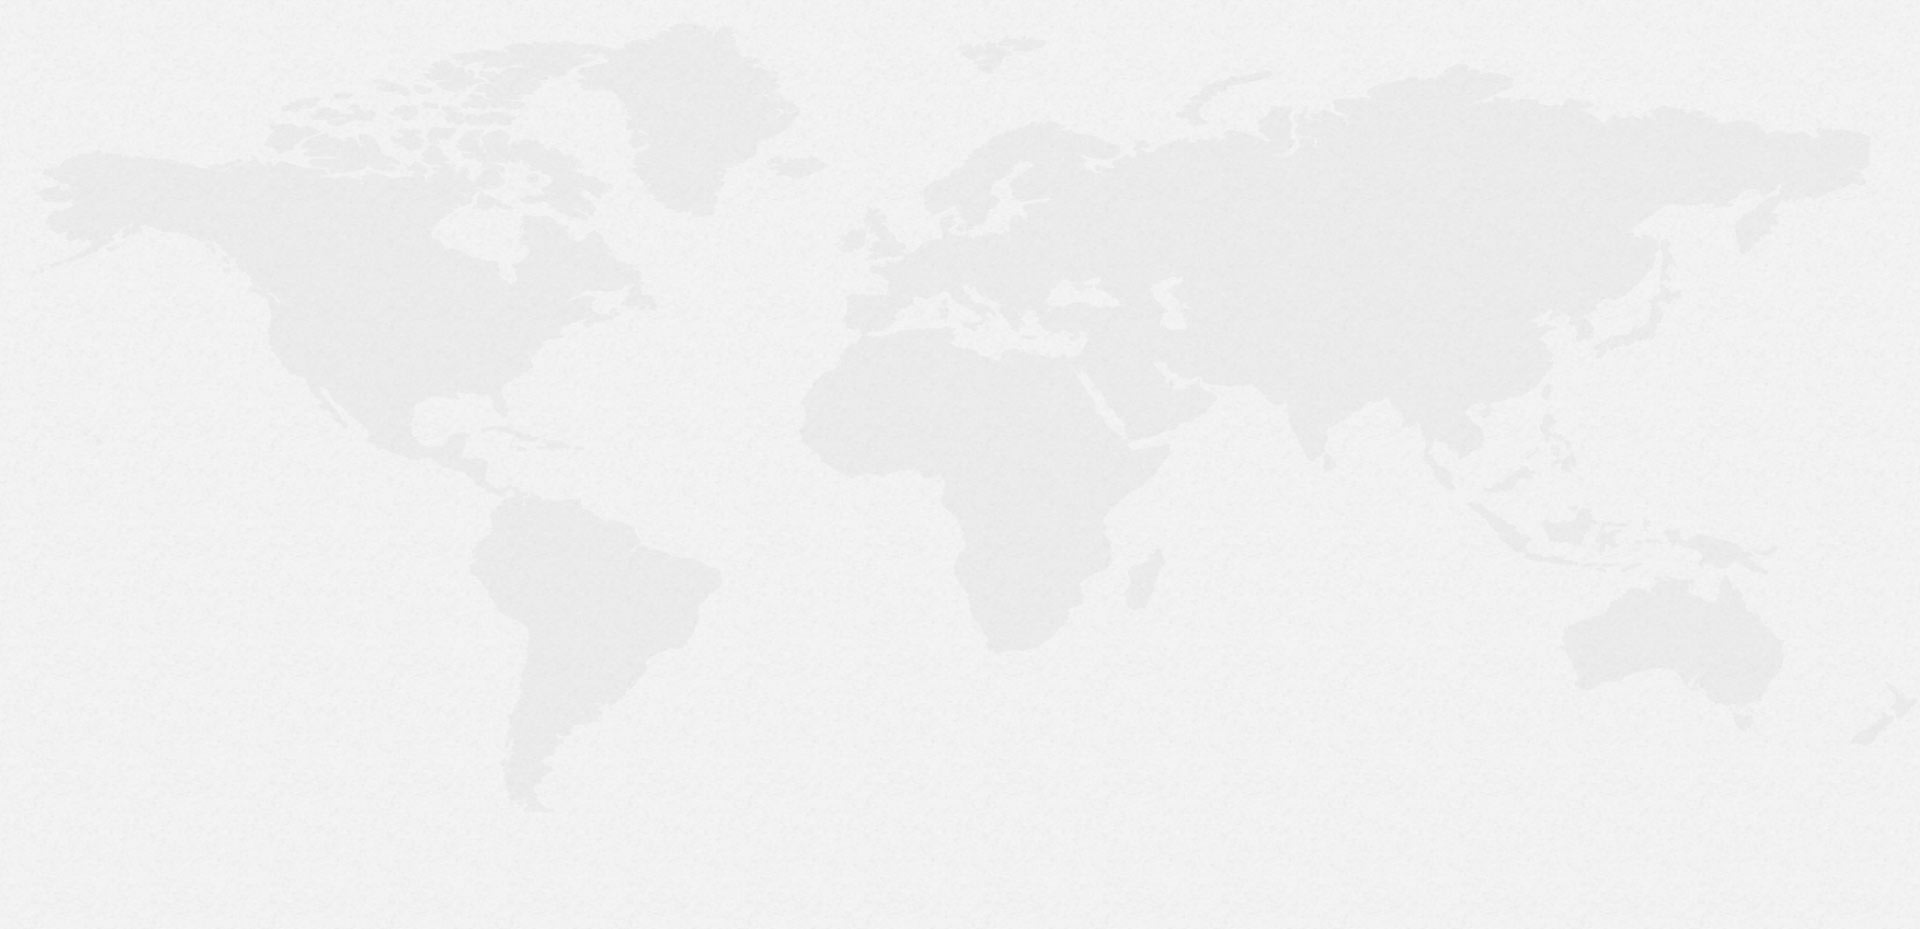
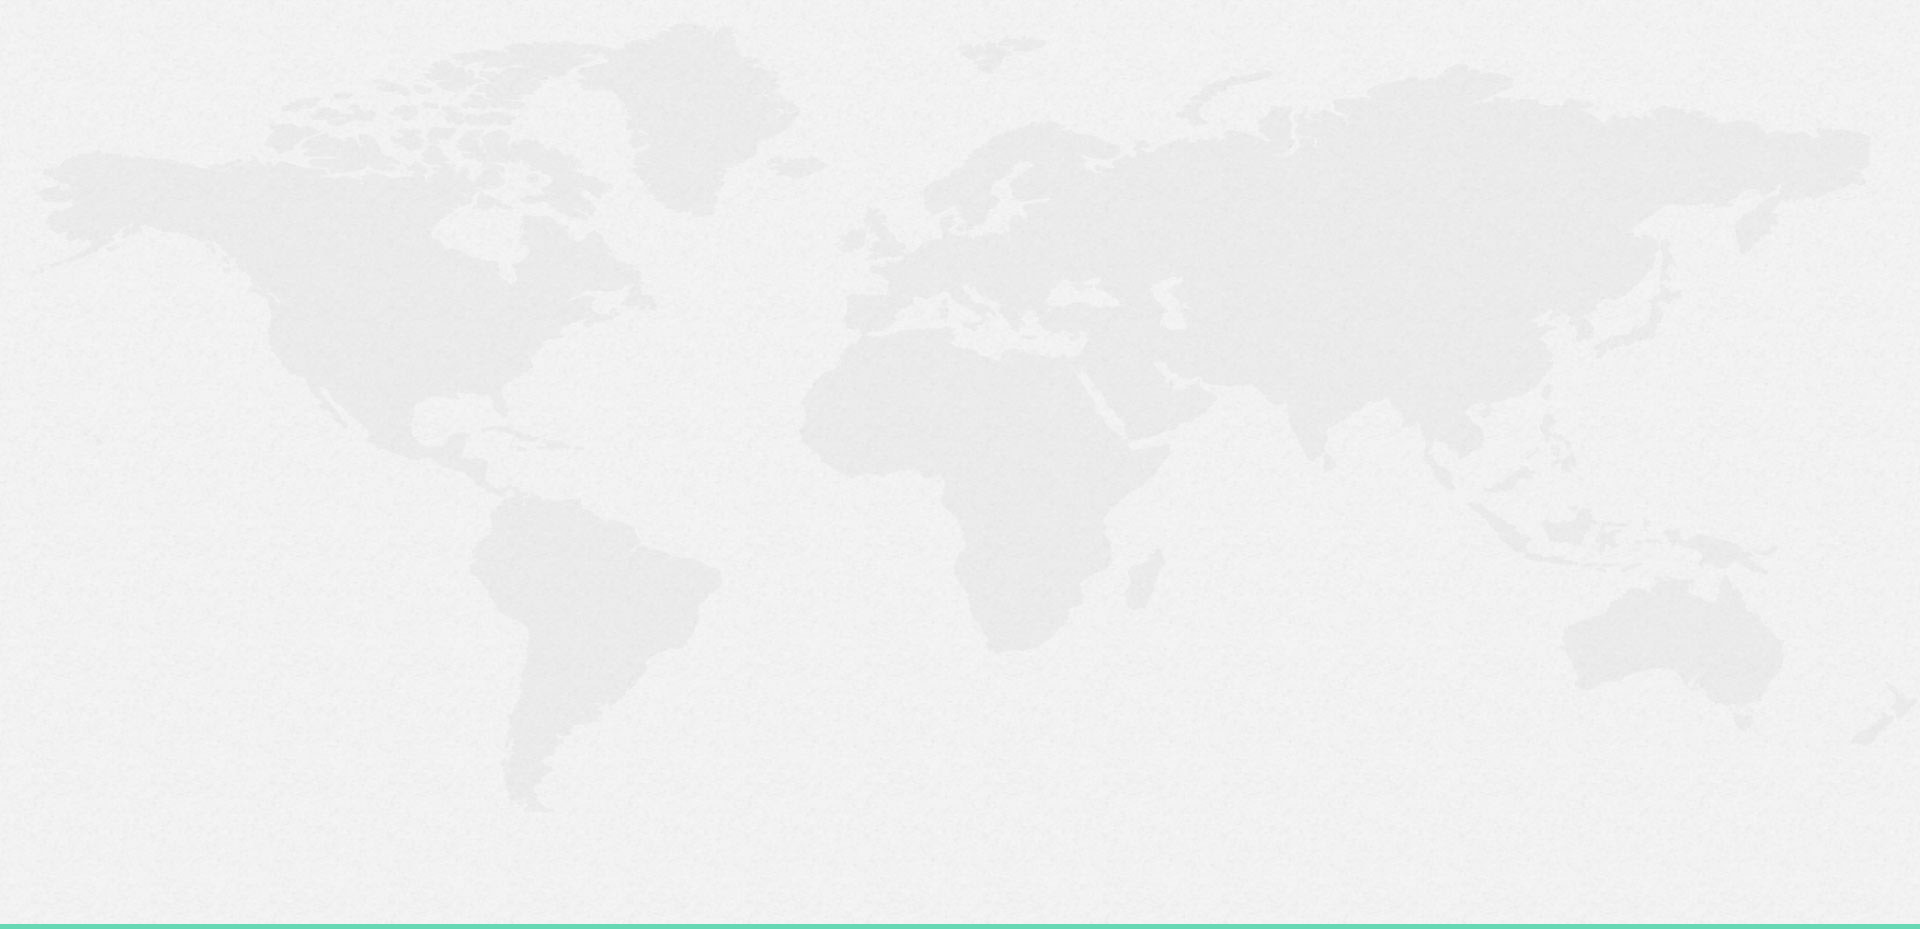
add

Changed region(s): [[0.0, 0.9677, 1.0, 1.0]]

diff --git a/index.html b/index.html
@@ -343,52 +343,52 @@
                     <ul class="links">
                         <li>
                             <a href="javascript:{}">
-                                <img src="logo/大唐.png">
+                                <img src="logo/合作伙伴.jpg">
                             </a>
                         </li>
                         <li>
                             <a href="javascript:{}">
-                                <img src="logo/华能.png">
+                                <img src="logo/合作伙伴1.jpg">
                             </a>
                         </li>
                         <li>
                             <a href="javascript:{}">
-                                <img src="logo/上海电气.png">
+                                <img src="logo/合作伙伴2.jpg">
                             </a>
                         </li>
                         <li>
                             <a href="javascript:{}">
-                                <img src="logo/国电.png">
+                                <img src="logo/合作伙伴3.jpg">
                             </a>
                         </li>
                         <li>
                             <a href="javascript:{}">
-                                <img src="logo/华电.png">
+                                <img src="logo/合作伙伴4.jpg">
                             </a>
                         </li>
                         <li>
                             <a href="javascript:{}">
-                                <img src="logo/华润.png">
+                                <img src="logo/合作伙伴5.jpg">
                             </a>
                         </li>
                         <li>
                             <a href="javascript:{}">
-                                <img src="logo/神华集团.png">
+                                <img src="logo/合作伙伴6.jpg">
                             </a>
                         </li>
                         <li>
                             <a href="javascript:{}">
-                                <img src="logo/中电投.png">
+                                <img src="logo/合作伙伴7.jpg">
                             </a>
                         </li>
                         <li>
                             <a href="javascript:{}">
-                                <img src="logo/光大环保.png">
+                                <img src="logo/合作伙伴8.jpg">
                             </a>
                         </li>
                         <li>
                             <a href="javascript:{}">
-                                <img src="logo/浙能.png">
+                                <img src="logo/合作伙伴9.jpg">
                             </a>
                         </li>
                     </ul>

diff --git a/mate.html b/mate.html
@@ -53,7 +53,7 @@
 	<![endif]-->
 
 	</head>
-	<body>
+	<hr>
 		
 	<div class="gtco-loader"></div>
 	
@@ -242,7 +242,9 @@
 
 	<!--业绩滚动-->
 
-	<div id="gtco-services">
+	<hr style="margin-top: 0px;margin-bottom: 0px;border-top: 4px solid #52d3aa;">
+
+	<div id="gtco-services" style="background-color: #efefef;">
 	<div class="gtco-container">
 	<div class="row animate-box">
 		<div class="text-center gtco-heading">
@@ -253,52 +255,52 @@
 			<ul class="links">
 				<li>
 					<a href="javascript:{}">
-						<img src="links/大唐.png">
+						<img src="logo/合作伙伴.jpg">
 					</a>
 				</li>
 				<li>
 					<a href="javascript:{}">
-						<img src="links/华能.png">
+						<img src="logo/合作伙伴1.jpg">
 					</a>
 				</li>
 				<li>
 					<a href="javascript:{}">
-						<img src="links/上海电气.png">
+						<img src="logo/合作伙伴2.jpg">
 					</a>
 				</li>
 				<li>
 					<a href="javascript:{}">
-						<img src="links/国电 .png">
+						<img src="logo/合作伙伴3.jpg">
 					</a>
 				</li>
 				<li>
 					<a href="javascript:{}">
-						<img src="links/华电.png">
+						<img src="logo/合作伙伴4.jpg">
 					</a>
 				</li>
 				<li>
 					<a href="javascript:{}">
-						<img src="links/华润.png">
+						<img src="logo/合作伙伴5.jpg">
 					</a>
 				</li>
 				<li>
 					<a href="javascript:{}">
-						<img src="links/神华集团.png">
+						<img src="logo/合作伙伴6.jpg">
 					</a>
 				</li>
 				<li>
 					<a href="javascript:{}">
-						<img src="links/中电投.png">
+						<img src="logo/合作伙伴7.jpg">
 					</a>
 				</li>
 				<li>
 					<a href="javascript:{}">
-						<img src="links/光大环保.png">
+						<img src="logo/合作伙伴8.jpg">
 					</a>
 				</li>
 				<li>
 					<a href="javascript:{}">
-						<img src="links/浙能.png">
+						<img src="logo/合作伙伴9.jpg">
 					</a>
 				</li>
 			</ul>
@@ -308,12 +310,7 @@
 	</div>
 	</div>
 	</div>
-
 	<div id="icons"></div>
-
-
-
-
 	<footer id="gtco-footer" role="contentinfo" style="font-size: 13px">
 		<div class="gtco-container">
 			<div class="row">

diff --git a/css/gundong.css b/css/gundong.css
@@ -87,7 +87,7 @@ th, td {
         margin-bottom: 5px;
         box-shadow: 0 2px 8px #ccc;
         overflow-y: auto;
-
+    }
 }
 
 .scrollWrap table{
